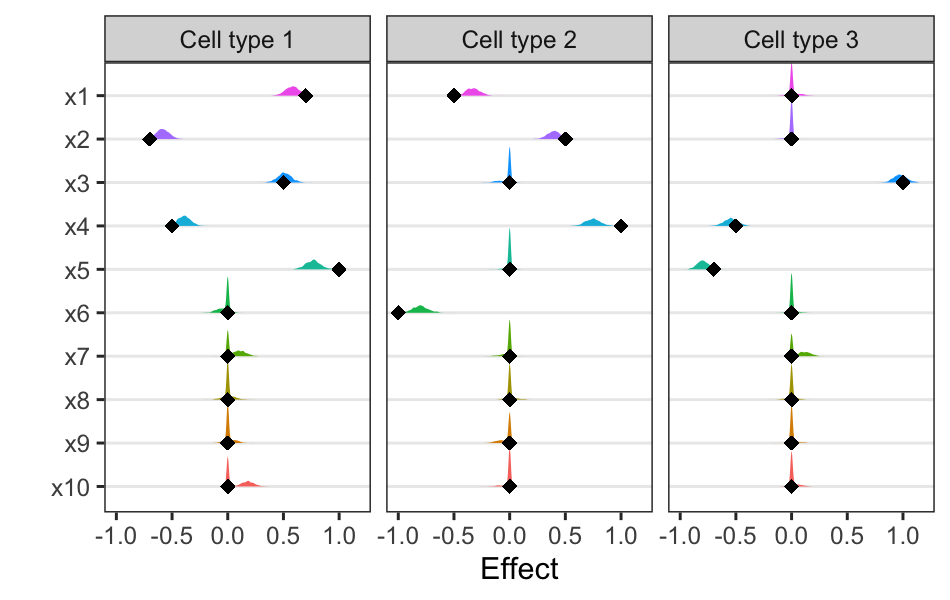
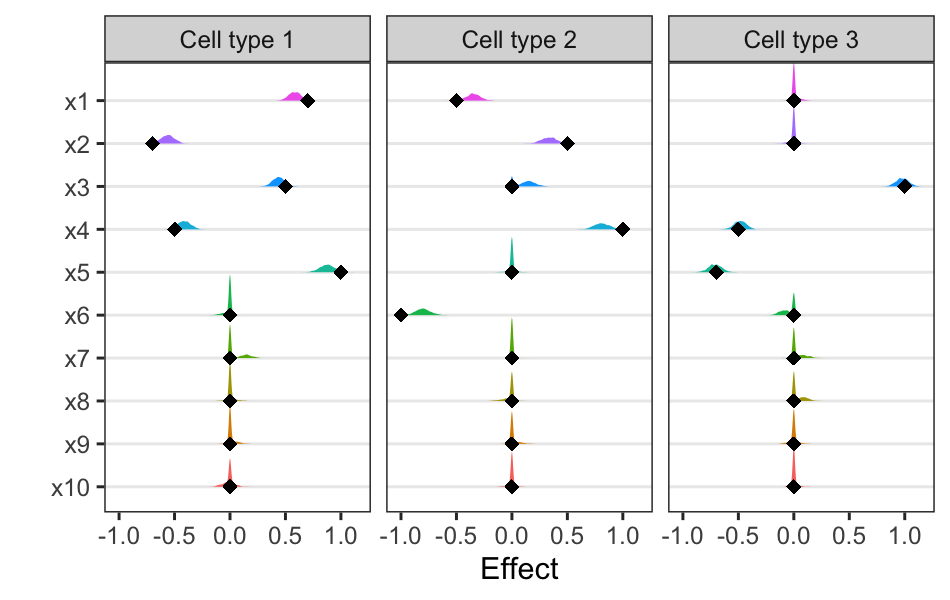
update vigngette

diff --git a/NEWS.md b/NEWS.md
@@ -1,21 +1,20 @@
 <div style="text-align: left;">
 
-## GPTCM 1.1.3 (2025-10-01) (GitHub Only)
+### GPTCM 1.1.3 (2025-10-31)
 
 * TODO: update results in vignette
 
 * Remove redundant variables `logPosteriorZeta` and `logPosteriorBeta` in cpp files
 * Remove partial likelihood `loglikelihood0()`, and always use joint likelihood
+* Remove useless func `arms_simple()`
 * Pass more references and using more `const` keyword in functions
 * Update `simData()` by changing xi0 to simulate survival data with censoring rate 0.2
-* Remove `arms_simple`
 * Use `openmp` to parallelize some for-loop
+* Update vignette
 
 * TODO: decide whether keep `kappaIGamma=TRUE` or not
-* TODO: remove redundant arguments "tauSq" and "wSq" after bringing them out of ARMS files
-* TODO: bug for posterior pi_{jl}
 
-## GPTCM 1.1.2 (2025-09-26)
+### GPTCM 1.1.2 (2025-09-26)
 
 * Update simulation examples in vignette due to the change of `mvnfast::rmvn()`
 * Convert line endings in `configure.ac` to LF
@@ -23,30 +22,30 @@
 * Update function `simData()` for any number of clusters 
 * Simplify `BVS.cpp`
 
-## GPTCM 1.1.1 (2025-09-16)
+### GPTCM 1.1.1 (2025-09-16)
 
 * Fix a warning about fallback compilation with Armadillo 14.6.3 from CRAN check on machine `r-devel-linux-x86_64-debian-gcc`
 * Fix issues raised from CRAN reviewer
 * Change `MASS::mvrnorm()` to `mvnfast::rmvn()`
 
-## GPTCM 1.1.0 (2025-09-07) (GitHub Only)
+### GPTCM 1.1.0 (2025-09-07) (GitHub Only)
 
 * First CRAN version
 * Add vignette
 
-## GPTCM 1.0.3 (2025-09-05) (GitHub Only)
+### GPTCM 1.0.3 (2025-09-05) (GitHub Only)
 
 * Fix NOTE about `elapsed time` from Winbuilder checks 
 
-## GPTCM 1.0.2 (2025-09-05) (GitHub Only)
+### GPTCM 1.0.2 (2025-09-05) (GitHub Only)
 
 * Improve help files
 
-## GPTCM 1.0.1 (2025-08-28) (GitHub Only)
+### GPTCM 1.0.1 (2025-08-28) (GitHub Only)
 
 * In `simData()`, suppress intercept when simulating data based on the Cox model
 
-## GPTCM 1.0.0 (2025-08-25) (GitHub Only)
+### GPTCM 1.0.0 (2025-08-25) (GitHub Only)
 
 * First released version at `ocbe-uio` github
 

diff --git a/README.md b/README.md
@@ -50,7 +50,7 @@ n <- 200 # subjects
 p <- 10 # variable selection predictors
 L <- 3 # cell types
 library(GPTCM)
-set.seed(123)
+set.seed(1234)
 dat <- simData(n, p, L)
 
 # KM curve
